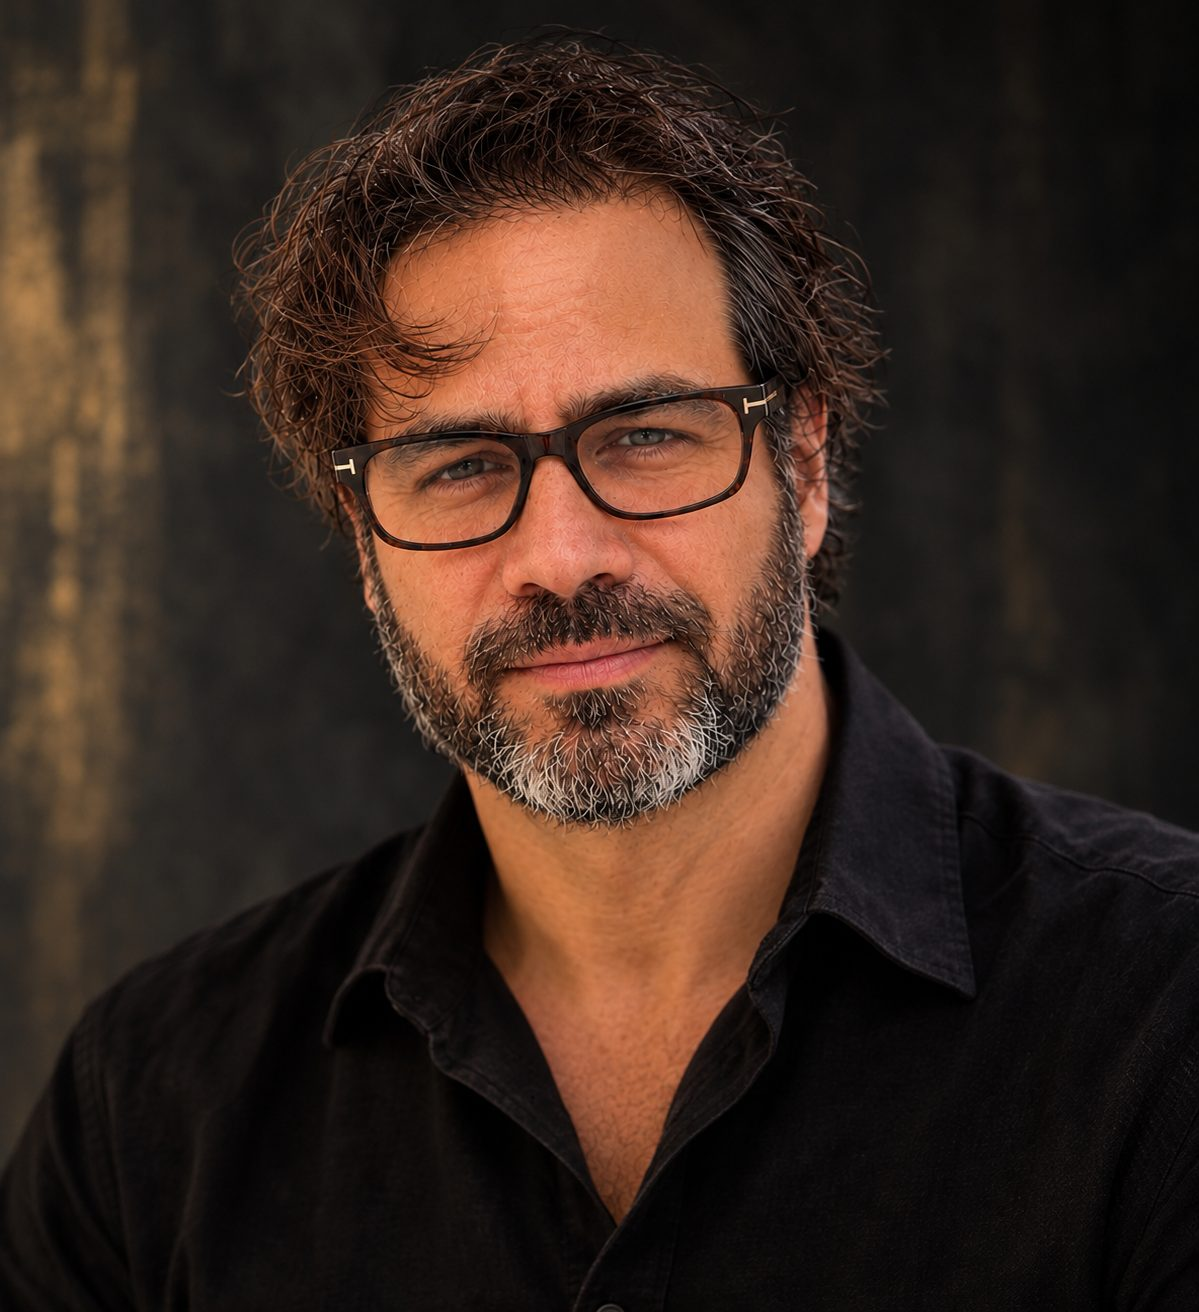
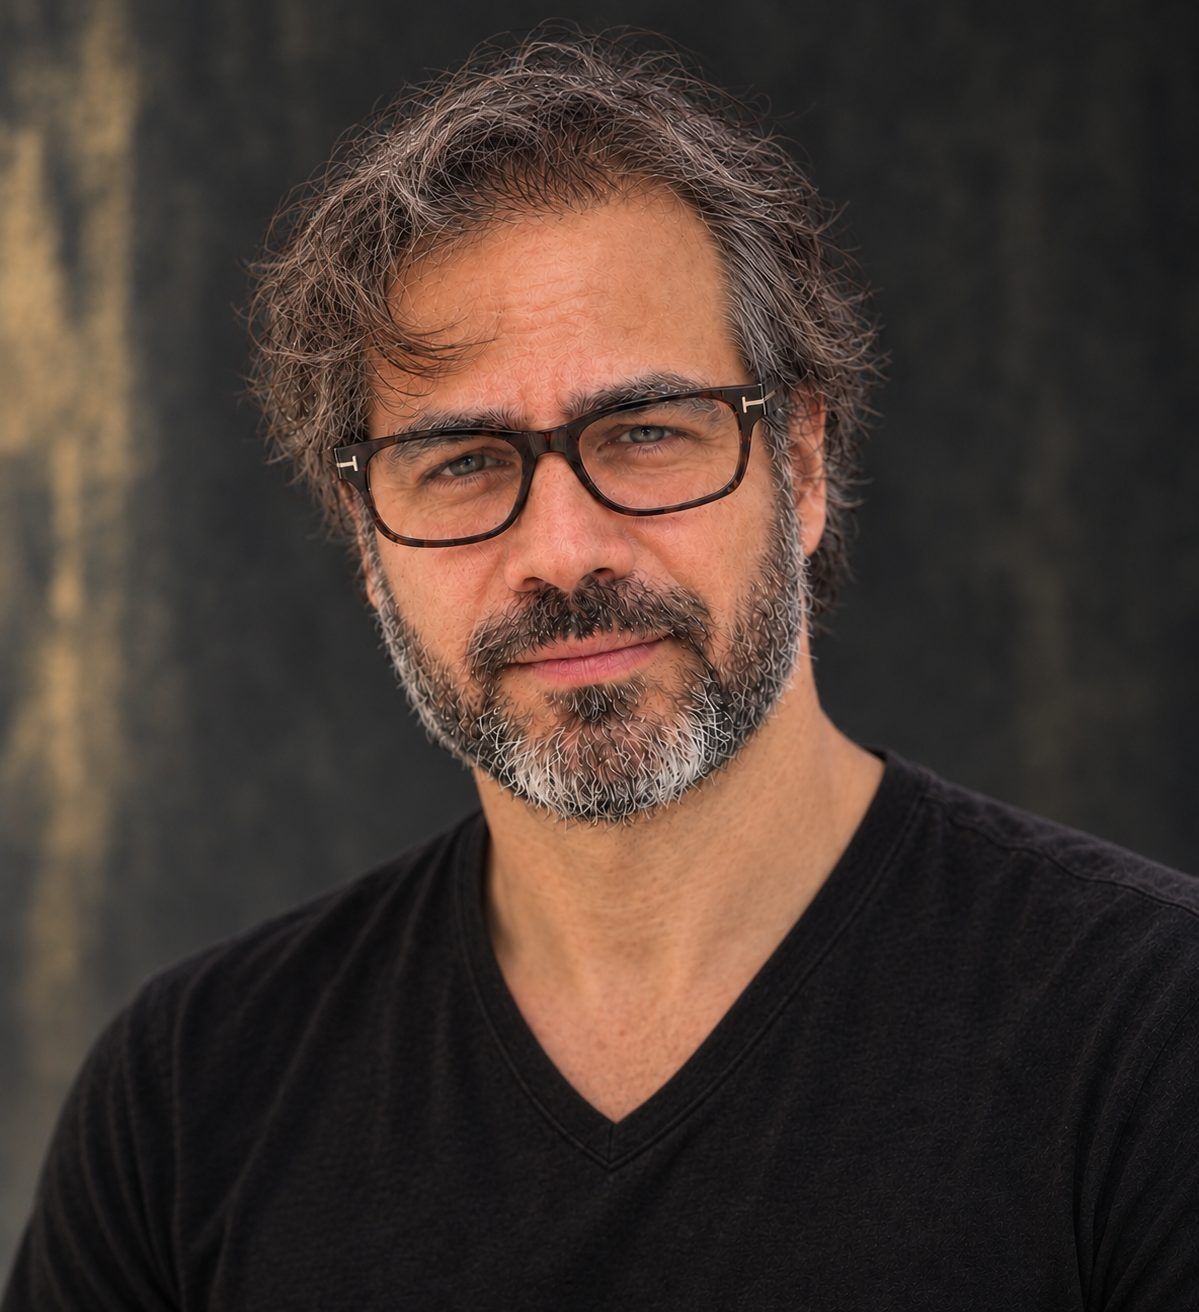
Replace the author portrait and remove the old oil painting.
The author page now uses the November 22 photograph at the same filenames and compression settings. The dark-haired oil portraits under assets/author/ are deleted, and the portrait test checks the new files instead.

diff --git a/tests/author_portrait.py b/tests/author_portrait.py
@@ -1,5 +1,5 @@
 #!/usr/bin/env python3
-"""The approved oil portrait is the author photo. Icons stay on the older mark."""
+"""The dramatic portrait is the author photo. Icons stay on the older mark."""
 
 import json
 import re
@@ -9,8 +9,10 @@ from pathlib import Path
 from PIL import Image
 
 ROOT = Path(__file__).resolve().parents[1]
-FULL = ROOT / "assets/author/vicente-gabriel-flores-portrait.jpg"
-SMALL = ROOT / "assets/author/vicente-gabriel-flores-portrait-560.jpg"
+DRAMATIC = ROOT / "assets/author-portrait-dramatic.jpg"
+WEBP = ROOT / "assets/author-portrait-dramatic.webp"
+OG = ROOT / "assets/author-portrait-dramatic-og.jpg"
+TEXT_SUFFIXES = {".html", ".xml", ".json", ".js", ".css", ".py", ".svg", ".webmanifest", ".txt", ".md"}
 
 
 def persons(path):
@@ -38,11 +40,51 @@ def persons(path):
 
 class AuthorPortrait(unittest.TestCase):
     def test_optimized_copies(self):
-        with Image.open(FULL) as full, Image.open(SMALL) as small:
-            self.assertEqual(full.size, (1024, 1024))
-            self.assertEqual(small.size, (560, 560))
-        self.assertLess(FULL.stat().st_size, 200_000)
-        self.assertLess(SMALL.stat().st_size, 200_000)
+        with Image.open(DRAMATIC) as jpg, Image.open(WEBP) as webp, Image.open(OG) as og:
+            self.assertEqual(jpg.format, "JPEG")
+            self.assertEqual(jpg.size, (1199, 1312))
+            self.assertTrue(jpg.info.get("progressive"))
+            self.assertEqual(webp.format, "WEBP")
+            self.assertEqual(webp.size, (1199, 1312))
+            self.assertEqual(og.format, "JPEG")
+            self.assertEqual(og.size, (1200, 630))
+            self.assertTrue(og.info.get("progressive"))
+        self.assertLess(DRAMATIC.stat().st_size, 200_000)
+        self.assertLess(WEBP.stat().st_size, DRAMATIC.stat().st_size)
+        self.assertLess(OG.stat().st_size, 200_000)
+
+    def test_old_oil_portraits_are_removed(self):
+        self.assertFalse((ROOT / "assets/author/vicente-gabriel-flores-portrait.jpg").exists())
+        self.assertFalse((ROOT / "assets/author/vicente-gabriel-flores-portrait-560.jpg").exists())
+        self.assertFalse((ROOT / "assets/author").exists())
+        needle = "vicente-gabriel-flores-portrait"
+        folder = "assets/author/"
+        for path in ROOT.rglob("*"):
+            if not path.is_file() or path.suffix.lower() not in TEXT_SUFFIXES:
+                continue
+            if path.resolve() == Path(__file__).resolve():
+                continue
+            text = path.read_text(encoding="utf-8", errors="ignore")
+            rel = path.relative_to(ROOT).as_posix()
+            self.assertNotIn(needle, text, rel)
+            self.assertNotIn(folder, text, rel)
+
+    def test_published_dimensions_match_the_files(self):
+        with Image.open(DRAMATIC) as jpg, Image.open(OG) as og:
+            width, height = jpg.size
+            og_width, og_height = og.size
+        author = (ROOT / "author.html").read_text(encoding="utf-8")
+        self.assertIn(f'width="{width}" height="{height}"', author)
+        self.assertIn(f'property="og:image:width" content="{og_width}"', author)
+        self.assertIn(f'property="og:image:height" content="{og_height}"', author)
+        for name in ("author.html", "index.html"):
+            for node in persons(ROOT / name):
+                if node.get("name") != "Vicente Gabriel Flores":
+                    continue
+                image = node.get("image")
+                if isinstance(image, dict):
+                    self.assertEqual(image.get("width"), width, name)
+                    self.assertEqual(image.get("height"), height, name)
 
     def test_homepage_author_section_uses_the_portrait(self):
         index = (ROOT / "index.html").read_text(encoding="utf-8")
